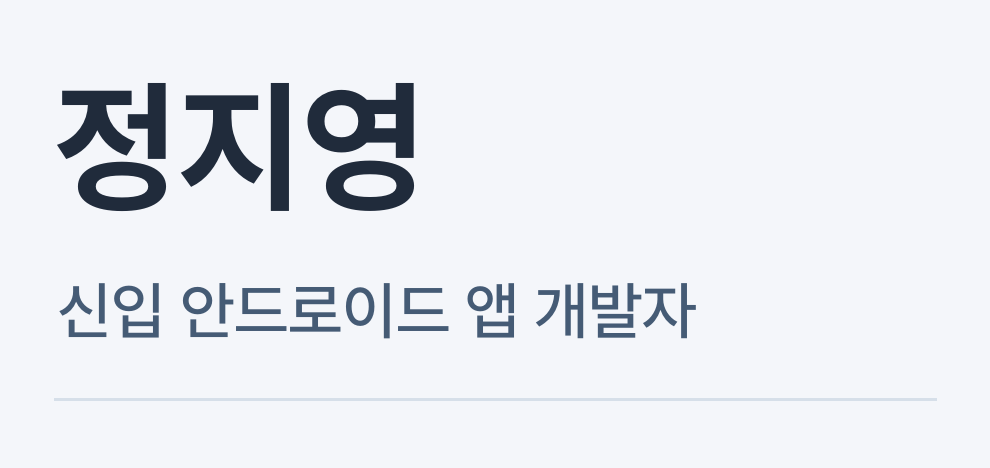
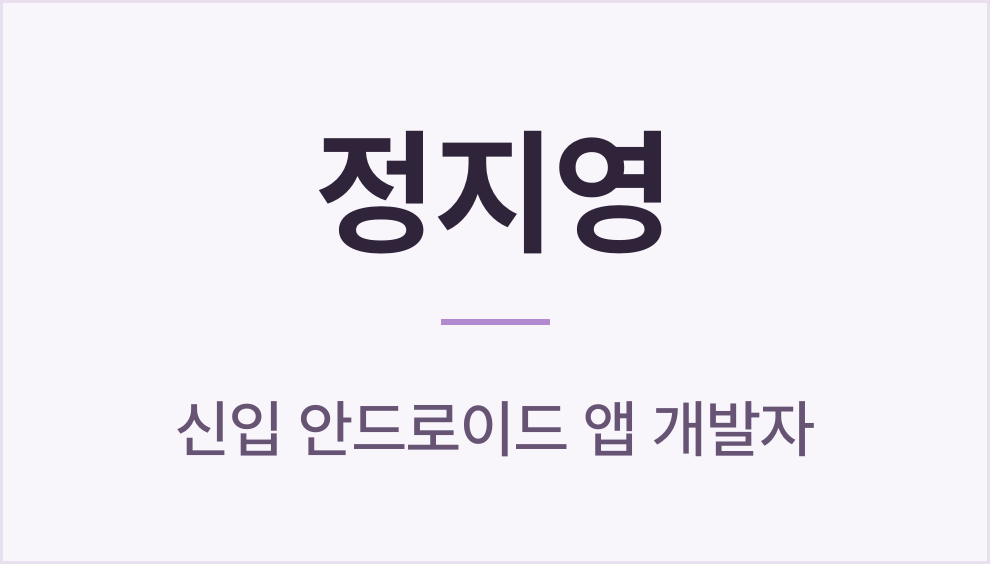
docs: 참고 디자인에 맞춰 배너 정렬과 테마별 이미지 개선

Changed region(s): [[0.0606, 0.5385, 0.8182, 0.8077], [0.0606, 0.1795, 0.6667, 0.4487], [0.0606, 0.8376, 0.9394, 0.8675]]

diff --git a/README.md b/README.md
@@ -1,11 +1,17 @@
 <picture>
-  <source media="(max-width: 600px)" srcset="https://raw.githubusercontent.com/Jiyeong-kor/Jiyeong-kor/main/assets/profile/header-mobile.png">
-  <img src="https://raw.githubusercontent.com/Jiyeong-kor/Jiyeong-kor/main/assets/profile/header.png" alt="정지영 | 신입 안드로이드 앱 개발자" width="840">
+  <source media="(prefers-color-scheme: dark) and (max-width: 600px)" srcset="https://raw.githubusercontent.com/Jiyeong-kor/Jiyeong-kor/main/assets/profile/header-mobile-dark.png?v=2">
+  <source media="(max-width: 600px)" srcset="https://raw.githubusercontent.com/Jiyeong-kor/Jiyeong-kor/main/assets/profile/header-mobile.png?v=2">
+  <source media="(prefers-color-scheme: dark)" srcset="https://raw.githubusercontent.com/Jiyeong-kor/Jiyeong-kor/main/assets/profile/header-dark.png?v=2">
+  <img src="https://raw.githubusercontent.com/Jiyeong-kor/Jiyeong-kor/main/assets/profile/header.png?v=2" alt="정지영 | 신입 안드로이드 앱 개발자" width="840">
 </picture>
 
 코틀린과 Jetpack Compose로 안드로이드 앱을 만듭니다. 팀원들과 분리배출 앱 ‘여기버려’를 만들어 Google Play에 출시했고, 지금도 검색과 즐겨찾기 기능을 개선하고 있습니다.
 
-**[포트폴리오](https://androidportfolio.jeongjiyeong486.workers.dev/)** &nbsp; / &nbsp; **[이메일](mailto:jeongjiyeong486@gmail.com)**
+<p align="center">
+  <a href="https://androidportfolio.jeongjiyeong486.workers.dev/"><strong>포트폴리오</strong></a>
+  &nbsp; / &nbsp;
+  <a href="mailto:jeongjiyeong486@gmail.com"><strong>이메일</strong></a>
+</p>
 
 ## 프로젝트
 
